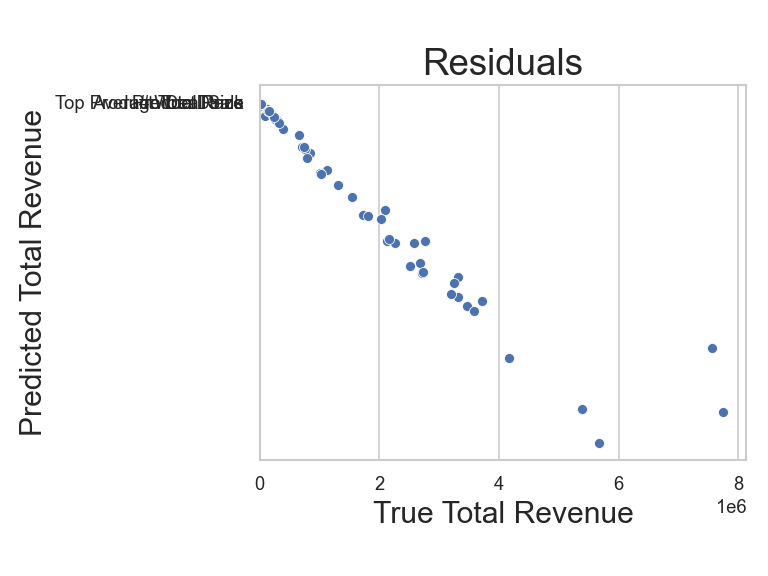
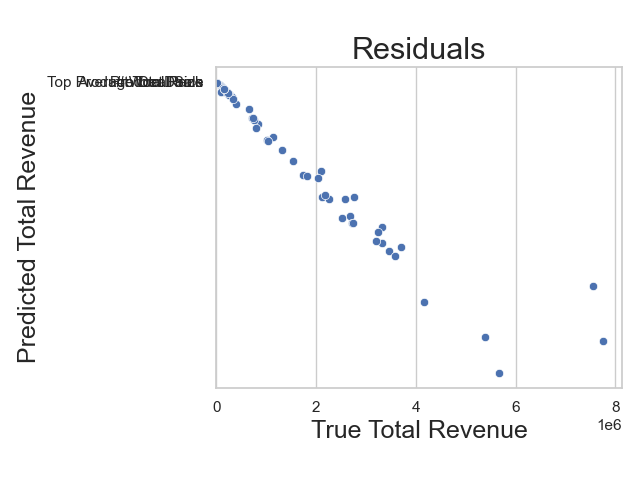
update train.py

diff --git a/train.py b/train.py
@@ -50,7 +50,7 @@ ax.set_title('GBR\nfeature importance', fontsize=title_fs)
 
 plt.tight_layout()
 plt.savefig('feat_importance.png')
-
+plt.close()
 ### Plot Residuals
 
 y_pred = pipe.predict(X_test) + np.random.normal(0,0.25,len(y_test))
@@ -64,9 +64,10 @@ ax.set_ylabel('Predicted Total Revenue', fontsize=axis_fs)
 ax.set_title('Residuals',fontsize=title_fs)
 
 #square aspect ratio or line if needed
-# ax.plot([1,8000000], [1,8000000], 'black', linewidth=1)
-# plt.ylim((0,950000))
-# plt.xlim((0,950000))
+ax.plot([1,8000000], [1,8000000], 'black', linewidth=1)
+plt.ylim((0,950000))
+plt.xlim((0,950000))
 
 plt.tight_layout()
-plt.savefig('residuals.png', dpi=120)
+plt.savefig('residuals.png',dpi=120)
+plt.close()
